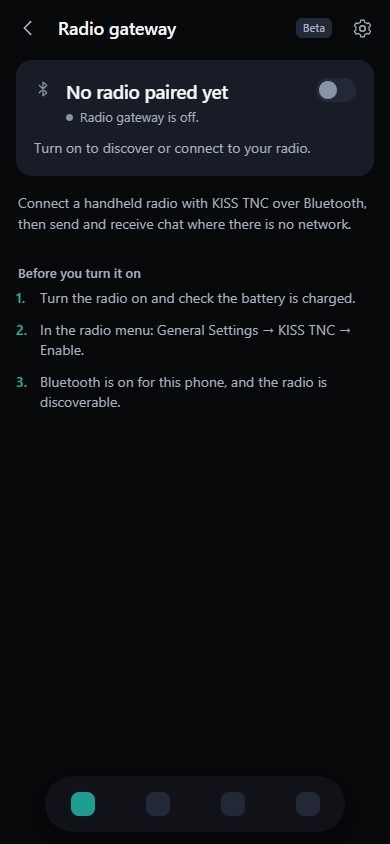
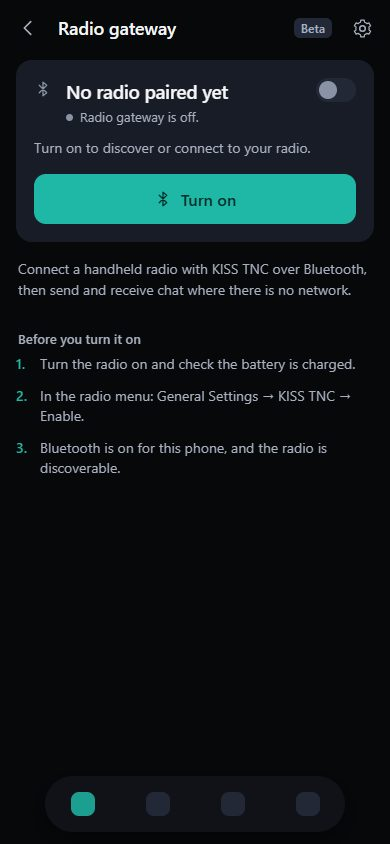
design(radio): match the review mock to the implementation
The off state gains the full-width Turn on action, a lost link renders No link with a disabled talk control (the P0 from the critique), the pair action is a quiet secondary once a radio exists, and the shots are re-captured from the checked page.

Changed region(s): [[0.0308, 0.1848, 0.9538, 0.5853], [0.7692, 0.0308, 0.8308, 0.0616], [0.0308, 0.5237, 0.0615, 0.5545]]

diff --git a/design/radio-v3/app.js b/design/radio-v3/app.js
@@ -72,6 +72,8 @@ const COPY = {
   forgetSub: 'Flash stops using VR-N76. You can pair it again at any time.',
   audio: 'Radio audio',
   audioOff: 'Turn on listening to hear the radio and talk.',
+  audioNoLink: 'No link',
+  audioNeedsLink: 'Reconnect the radio to talk.',
   listening: 'Listening',
   holdToTalk: 'Hold to talk',
   talking: 'Talking…',
@@ -157,6 +159,7 @@ function stationPlate() {
     </div>
     ${next ? `<p class="plate-next">${next}</p>` : ''}
     ${facts ? `<p class="facts">${facts}</p>` : ''}
+    ${!state.enabled ? `<div class="plate-actions"><button class="primary" id="turn-on">${icon.bluetooth}Turn on</button></div>` : ''}
     ${lost ? `<div class="plate-actions"><button class="reconnect">${icon.retry}${COPY.reconnect}</button></div>` : ''}
   </section>`;
 }
@@ -275,7 +278,12 @@ function audioPanel() {
   }
 
   const talking = state.voice === 'talking';
-  const bars = [1, 2, 3, 4, 5].map((i) => `<i class="${i <= (talking ? 5 : 2) ? 'on' : ''}"></i>`).join('');
+  const linkLive = state.view !== 'lost';
+  const canTalk = linkLive;
+  const stateText = talking ? COPY.talking : linkLive ? COPY.listening : COPY.audioNoLink;
+  const bars = [1, 2, 3, 4, 5]
+    .map((i) => `<i class="${linkLive && i <= (talking ? 5 : 2) ? 'on' : ''}"></i>`)
+    .join('');
 
   return `
   <section class="audio" aria-label="Radio audio">
@@ -285,10 +293,10 @@ function audioPanel() {
     </div>
     <div class="audio-row">
       <div class="audio-state">
-        <span>${talking ? COPY.talking : COPY.listening}</span>
+        <span class="${linkLive ? '' : 'is-bad'}">${stateText}</span>
         <span class="meter" aria-hidden="true">${bars}</span>
       </div>
-      <button class="ptt" id="ptt" aria-label="Hold to talk through the radio">${icon.mic}${talking ? COPY.talking : COPY.holdToTalk}</button>
+      <button class="ptt ${canTalk ? '' : 'is-off'}" id="ptt" ${canTalk ? '' : 'aria-disabled="true"'} aria-label="Hold to talk through the radio">${icon.mic}${talking ? COPY.talking : linkLive ? COPY.holdToTalk : COPY.audioNeedsLink}</button>
     </div>
     <div class="audio-foot">${COPY.stationNote}</div>
   </section>`;
@@ -446,6 +454,8 @@ function render() {
   document.getElementById('back').onclick = () => history.back();
   const pairNew = document.getElementById('pair-new');
   if (pairNew) pairNew.onclick = () => { state.sheet = 'scan'; render(); };
+  const turnOn = document.getElementById('turn-on');
+  if (turnOn) turnOn.onclick = () => { state.enabled = true; state.view = 'empty'; render(); };
   const close = document.getElementById('sheet-close');
   if (close) close.onclick = () => { state.sheet = null; render(); };
   document.getElementById('scrim').onclick = () => { state.sheet = null; render(); };

diff --git a/design/radio-v3/styles.css b/design/radio-v3/styles.css
@@ -167,7 +167,9 @@ button { font: inherit; color: inherit; background: none; border: 0; padding: 0;
 
 .facts span { white-space: nowrap; }
 
-.plate-actions { display: flex; gap: 8px; }
+.plate-actions { display: flex; gap: 8px; margin-top: 4px; }
+
+.plate-actions .primary { width: 100%; }
 
 .reconnect {
   height: 40px;
@@ -432,6 +434,11 @@ button { font: inherit; color: inherit; background: none; border: 0; padding: 0;
 }
 
 .ptt:active, .ptt.is-talking { transform: scale(.985); filter: brightness(1.08); }
+
+.ptt.is-off { background: var(--subtle); color: var(--faint); cursor: default; }
+.ptt.is-off:active { transform: none; filter: none; }
+
+.audio-state .is-bad { color: var(--error); }
 
 .audio-foot { font-size: 12px; line-height: 16px; color: var(--faint); }
 
